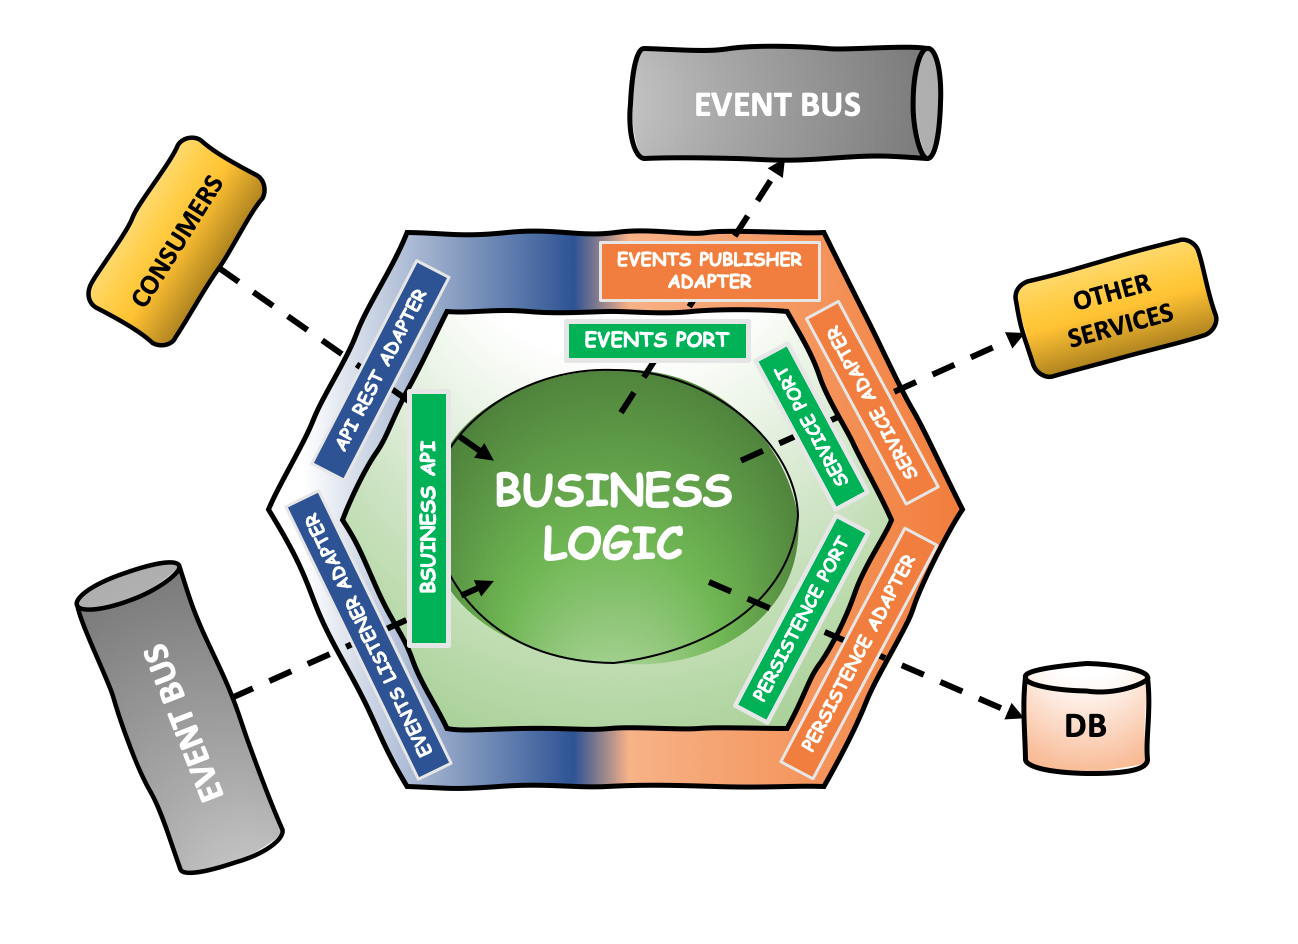
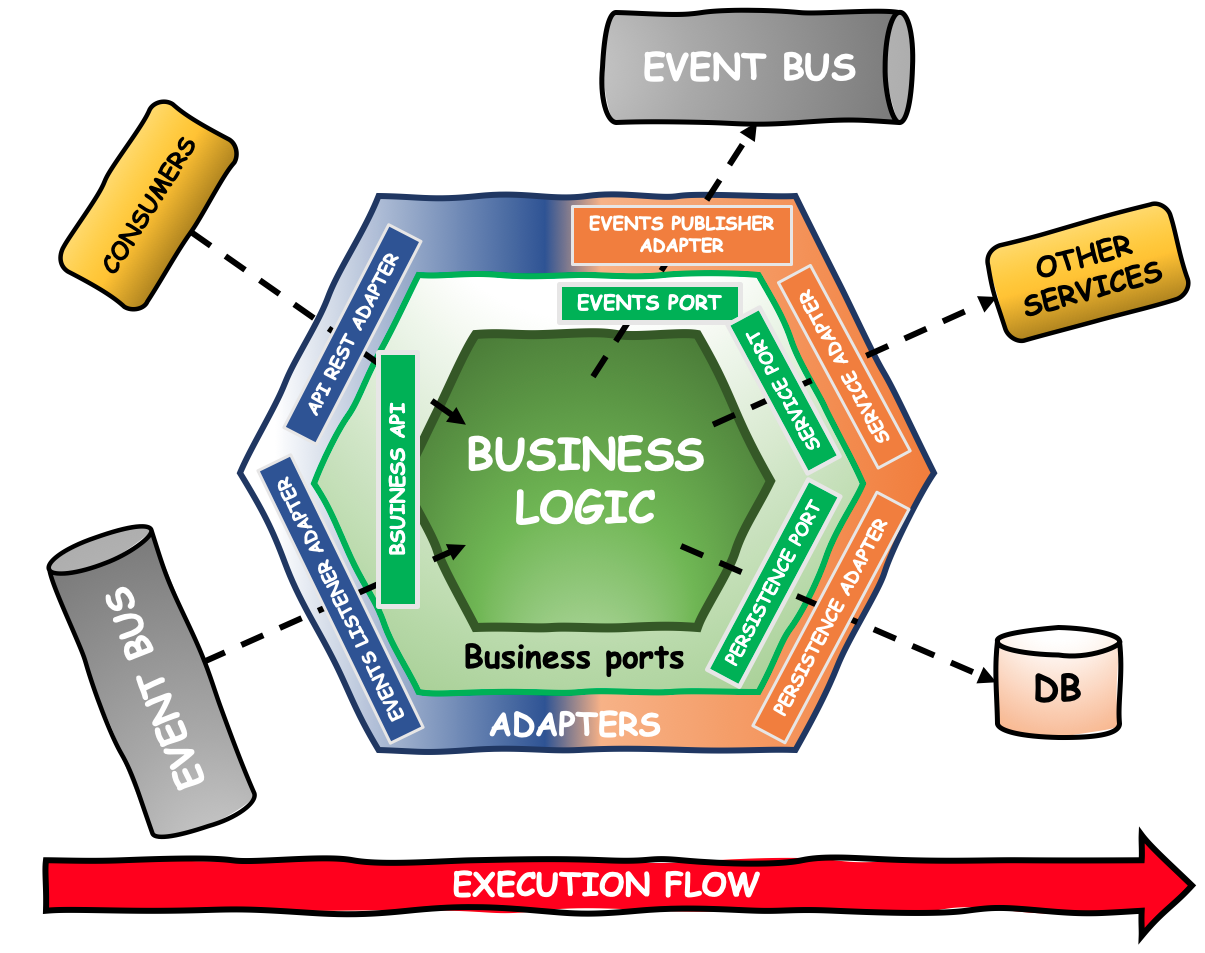
Modified logical view

diff --git a/README.md b/README.md
@@ -129,15 +129,95 @@ With this "unit testing" we'll check if each layer does what it should do but we
 
 We've already design a conceptual view in order to have a high level point of view of the service and its conceptual components, checking if we're covering requirements and principles. 
 
-Now, we have to go deeper and decomponse each layer in logical components. Let's see how each layer is composed:
+Now, we have to go deeper and decomponse each layer and main componentes in logical pieces. Let's see how each layer is composed:
 
 ![logical_view](/doc/images/logical_view.png)
 
+#### Input API
 
+This layer contains two main components:
+
+- **Rest API Handler**: its responsibility is to expose Rest endpoints to customers in order to execute business operations. It's composed by:
+  - **Definition**: this is the Rest definition exposed to outside. It defines: endpoints and paths, resources, verbs, input objects and output objects.
+  - **DTO**: defines the structure of input and output objects (resources) used by the endpoints. Error objects are included here.
+  - **Implementation**: this is the implementation of the Rest API definition. In this piece:
+    1. Requests are managed and validated, 
+    2. DTOs are translated to Business API input objects,
+    3. Operations exposed in the Business API are invoked
+    4. Responses from Business API are managed and translated to response DTOs and business exceptions also are catched and translated to Rest API errors messages and HTTP status codes.
+- **Events Handler**: its responsibility is to listen to events and calls to business API to execute business operations associated to those events. This piece knows all the details about how to listen to events to the specific event bus used.  It's composed by:
+  - **Definition**: this is the definition of how the events are listened to
+  - **DTO**: defines the structure of each event
+  - **Implementation**: this is the specific implementation about how to connect and listen to events from the event bus installed. In this piece:
+    1. Events are listened to and validated, 
+    2. DTOs are translated to Business API input objects,
+    3. Operations exposed in the Business API are invoked.
+
+In this layer, API validations will be made. This validations could be input format and structure, mandatory fields,...,etc. 
+
+
+
+#### Business
+
+This is the **core layer** because inside it it's implemented the business logic. This layer consists on these components:
+
+- **Business API:** this is the definition of the business operations and it's formed by the definition of the operations, the data managed by the operations and the exceptions associated to those operations:
+
+  - **Business API Definition:** defines the different business operations that the service is going to perform.
+
+  - **Business API Data Model:** this is the data managed by business operations, input and output. It's important not to share this data with consumers because in that case you'll be coupling your service and your business logic totally with the outside world. 
+
+    In order to avoid that kind of coupling, Input API is implemented. By this way, it's possible to evolve business logic without changing the way the service is consumed by consumers. Obviously, sometimes business changes triggering API changes and versioning our service but sometimes, business changes could be managed used Input API Layer. 
+
+  - **Business Exceptions:** contains the different exceptions associated to business operations
+
+  - **Business API Implementation:** this is the implementation of the API Definition. This component doesn't implement business logic. It's simply the access point to business model and calls to objects in Business Model. 
+
+- **Business Model:** this piece contains the implementation of the different business operations. In this piece we'll find aggregates, entities and value objects and it will use business port when it's required. The idea is to avoid an anemic model and using the Business API to expose business operations via business service(s) but really performing those opperations in the Business Model.
+
+  
+
+- **Business Ports:** this sublayer contains the ports definitions in order to be used by Business Model. Adapters must implement these definitions.
+
+
+
+#### Output API
+
+This is the layer where the service send data outside by events, calls to other services or calls to database. There are three adapters in this archetype (persistence, services and events) but depending on the business needs could be necessary to add more adapter types.
+
+Every adapter follows the same pattern:
+
+- **Port implementation:** implements the port definition set by Business Layer. In this implementation, details about how to connect and manage actions against database, other services or event bus are here. By this way, Business Layer is protected for infrastructure changes.
+
+- **Model:** this represents the model in which data is managed internally by the adapter and the final system (database, service or event bus). That means that database model is independent of Business Layer or events structure, for instance. 
+
+  Business doesn't know (and it doesn't care) if the database engine is SQL or NoSQL, if the tables are normalized or not. These details are only known by the adapter. The same with the event bus or external services. Details about how to consume some service are only known by the adapter, not by the Business Layer.
+
+
+
+#### Design concerns
+
+You may are wondering the reason that Input API definition, DTOS or input/output events definitions are not in Business Layer. In my opinion, Rest is just a channel in which business features are exposed to customers but it's just that, a channel. So, details about channels should be controlled outside Business Layer. The same with input events. Business layer doesn't have to know how events are listened.
+
+Ok, Input API is business, it's true. But the whole service is business because if there isn't a business reason to build the service, the service has no sense. 
+
+When we though about publishing an event we're thinking about business and business layer calls to a specific port in order to do that and it'll pass an object containing all the business data that should be published. Then, the adapter will translate that business information to a format in which it's possible to publish in the event bus that it's being used in that moment in the company. Many times adding some extra information to the business raw event is necessary. 
+
+Before building a service is very important to define its target and how it's going to be used. For instance:
+
+- Why is it necessary the service? Which business need is it going to solve?
+
+- How is the service going to be consumed? Rest? Events? Which events is it going to listened to?
+
+- Which events is it going to publish?
+
+- Which services does it need to call? How do they need to be consumed?
+
+- Which is the best engine and model to persist the service information?
+
+  
 
 ## How to use
-
-TBC
 
 ### Local installation
 The first step is to install the archetype in your local maven repository. To do this, execute:
